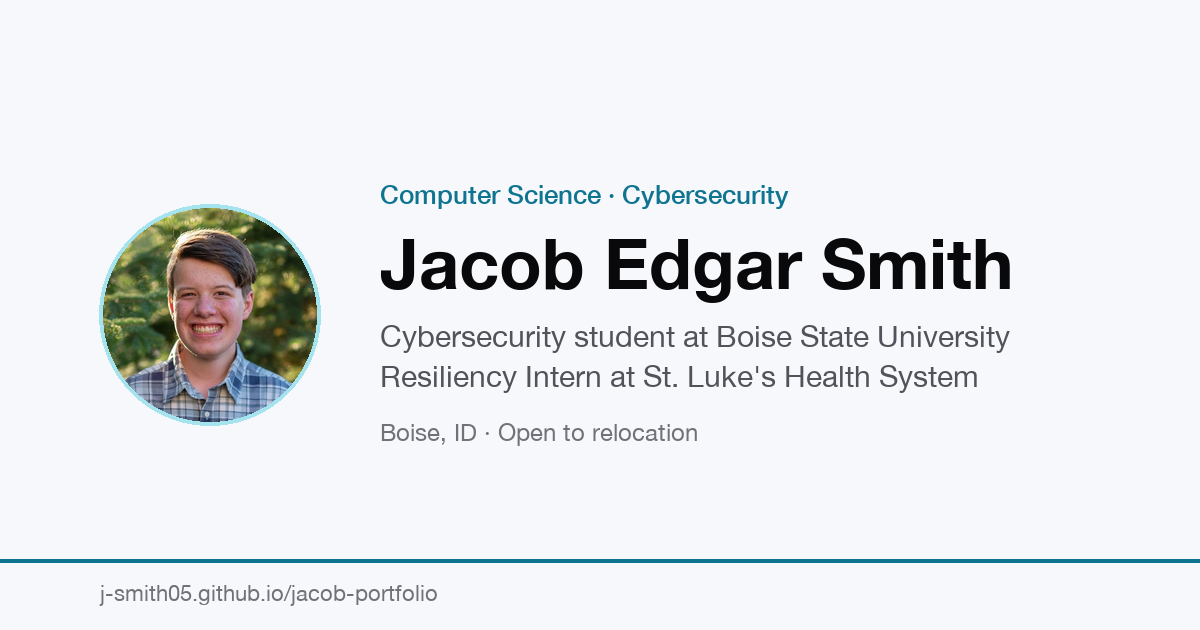
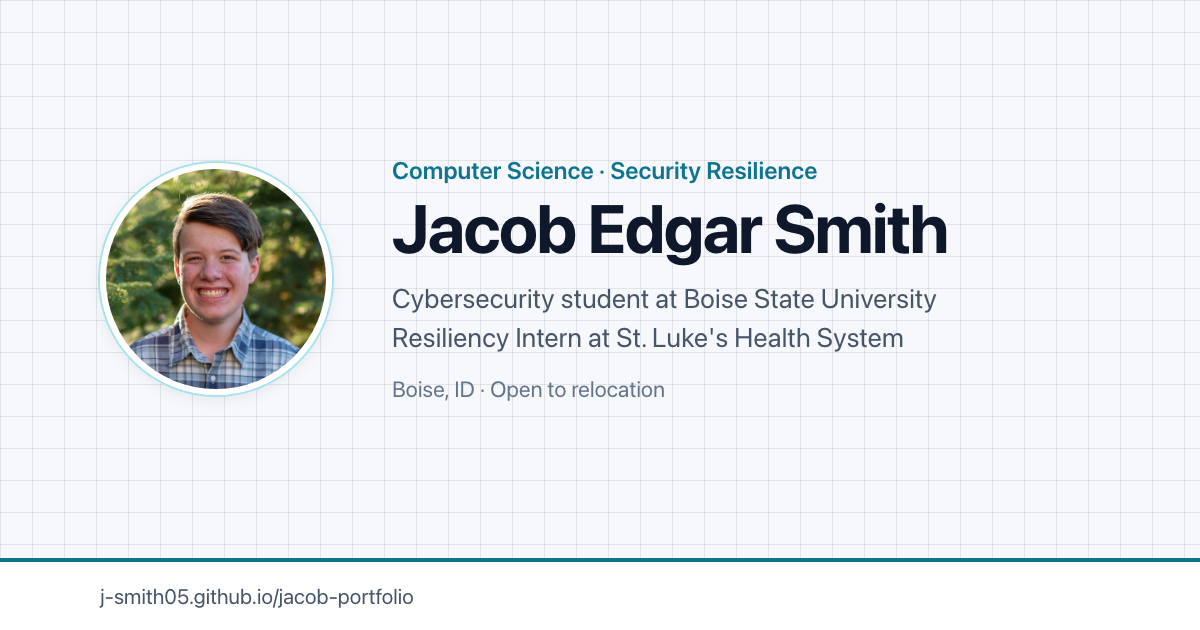
Add box-grid background texture and refresh preview image
Replace the header and headshot glows with an even grid texture across
the page, and regenerate the social preview image to match.

diff --git a/css/style.css b/css/style.css
@@ -13,9 +13,9 @@
   --accent-soft: #a5e3ef;
   --accent-tint: #e4f6fa;
   --on-accent: #ffffff;
-  --glow: rgba(6, 182, 212, 0.14);
   --shadow: 0 1px 2px rgba(15, 23, 42, 0.04), 0 4px 16px rgba(15, 23, 42, 0.04);
   --topbar-bg: rgba(247, 248, 251, 0.82);
+  --texture-line: rgba(15, 23, 42, 0.09);
   --font: -apple-system, BlinkMacSystemFont, "Inter", "Segoe UI", Roboto, Helvetica, Arial, sans-serif;
   --mono: ui-monospace, "SFMono-Regular", Menlo, Consolas, monospace;
   color-scheme: light;
@@ -37,9 +37,9 @@
     --accent-soft: #1a5563;
     --accent-tint: #0f2c36;
     --on-accent: #0e131d;
-    --glow: rgba(34, 211, 238, 0.12);
     --shadow: 0 1px 2px rgba(0, 0, 0, 0.25);
     --topbar-bg: rgba(14, 19, 29, 0.8);
+    --texture-line: rgba(255, 255, 255, 0.07);
     color-scheme: dark;
   }
 }
@@ -58,9 +58,9 @@
   --accent-soft: #1a5563;
   --accent-tint: #0f2c36;
   --on-accent: #0e131d;
-  --glow: rgba(34, 211, 238, 0.12);
   --shadow: 0 1px 2px rgba(0, 0, 0, 0.25);
   --topbar-bg: rgba(14, 19, 29, 0.8);
+  --texture-line: rgba(255, 255, 255, 0.07);
   color-scheme: dark;
 }
 
@@ -95,6 +95,20 @@ body {
   display: flex;
   flex-direction: column;
   -webkit-font-smoothing: antialiased;
+}
+
+/* Faint box-grid texture behind the page, even across the whole viewport */
+body::before {
+  content: "";
+  position: fixed;
+  inset: 0;
+  z-index: -1;
+  pointer-events: none;
+  background-image:
+    linear-gradient(var(--texture-line) 1px, transparent 1px),
+    linear-gradient(90deg, var(--texture-line) 1px, transparent 1px);
+  background-size: 32px 32px;
+  background-position: 0 0;
 }
 
 a {
@@ -184,7 +198,6 @@ p a:hover {
 /* ---------- Page header ---------- */
 header {
   padding: 72px 0 8px 0;
-  background: radial-gradient(ellipse 60% 100% at 30% 0%, var(--glow), transparent 70%);
 }
 
 .container {
@@ -423,7 +436,7 @@ strong {
   object-fit: cover;
   border-radius: 50%;
   border: 4px solid var(--card);
-  box-shadow: 0 0 0 1px var(--accent-soft), 0 10px 32px var(--glow);
+  box-shadow: 0 0 0 1px var(--accent-soft);
 }
 
 .hero-location {
